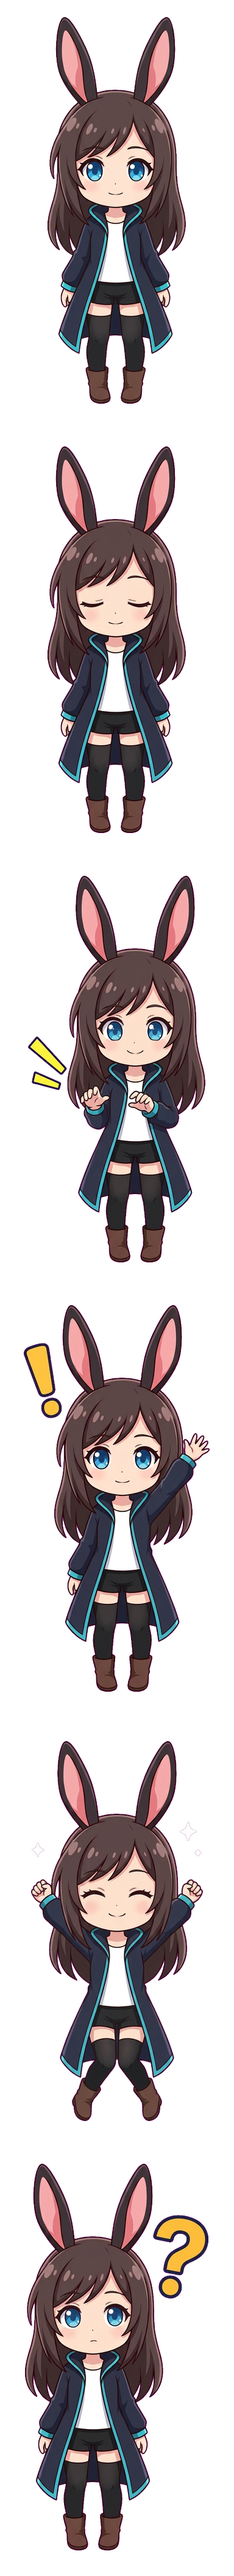
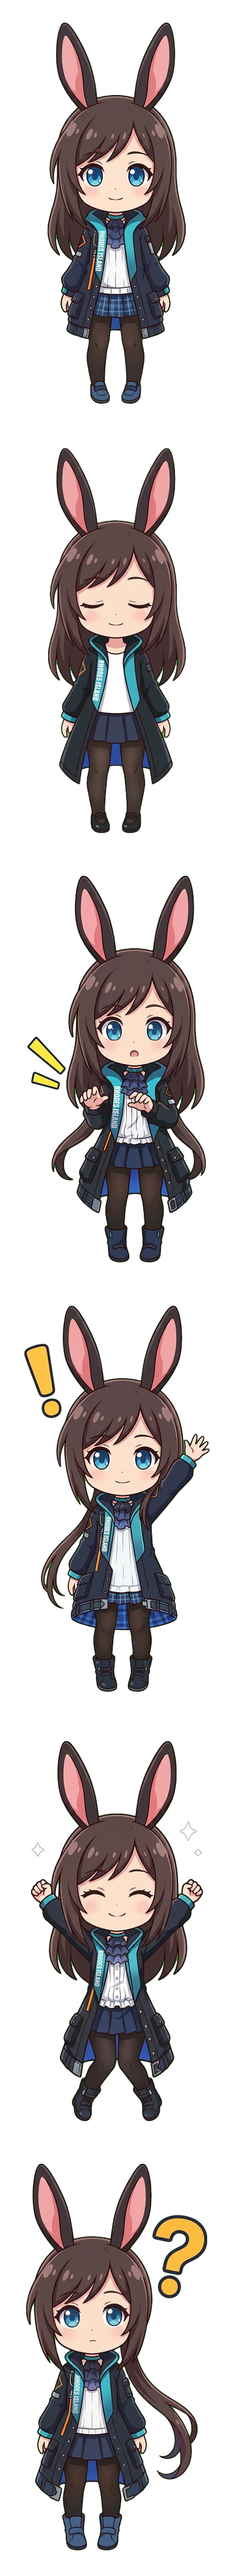
feat(amiya): replace the Q-version artwork with the new generation
The supplied sheet is six 768x1376 frames stacked in one column, already
carrying an alpha channel. Split it into `frames/` (kept as `source.png`)
and match the six rows against the previous atlas: the silhouettes are
pixel-identical, so the row order is unchanged, while the interior was
repainted — tights instead of bare thighs with over-knee socks, a plaid
skirt instead of shorts, blue shoes instead of brown boots, added hair
highlights, and the character's own "RHODES ISLAND" sash marking.

cutout.py now detects either input: a frame whose corners are transparent
is already keyed and is used as-is, because running the magenta unmix over
a keyed frame treats alpha as background and smears the edges.

preview.py is new: preview.png was listed in the README but nothing
produced it.

Verified: check.py green (baseline 661, body heights 622-633, packing
79%x90%, props visible on the dark theme); scale 0.5001 puts the content at
the same 104x218px on screen as before.

diff --git a/characters/lib/preview.py b/characters/lib/preview.py
@@ -1,0 +1,72 @@
+#!/usr/bin/env python3
+"""按 1:1 显示尺寸出对照图，用来确认小尺寸下还看得清。
+
+用法：
+
+    cd ~/projects/agents3 && uv run python <本目录>/preview.py [角色目录]
+
+做成两排：浅色主题底、深色主题底。精灵在页面上就是 132px 宽，所以这里也按
+132px 画 —— 放大看会骗人，缩到这个尺寸还能不能认出角色才是它要回答的问题。
+
+参数全部读 `<角色目录>/pack.json`，脚本本身不写死任何角色，也不 import
+character.py（那是生成参数，与产物规格是两回事）。
+"""
+
+from __future__ import annotations
+
+import json
+import sys
+from pathlib import Path
+
+from PIL import Image
+
+DISPLAY_W = 132      # 与 MoegirlSprite.tsx 里的 DISPLAY_W 一致
+GAP = 10
+MARGIN = 12
+# 浅色与深色主题各取一个接近实际界面的底色。
+BACKGROUNDS = [(246, 246, 248), (26, 27, 32)]
+
+
+def resolve_character_dir() -> Path:
+    """把角色目录从 argv 里摘出来；缺省用当前目录。"""
+    argv = sys.argv[1:]
+    directory = Path(argv[0]).resolve() if argv else Path.cwd()
+    if not (directory / "pack.json").exists():
+        raise SystemExit(f"{directory} 里没有 pack.json —— 用位置参数指到角色目录，或 cd 进去再跑")
+    return directory
+
+
+def main() -> int:
+    directory = resolve_character_dir()
+    pack = json.loads((directory / "pack.json").read_text())
+    frame_w, frame_h = pack["frame"]["width"], pack["frame"]["height"]
+    count = pack["atlas"]["count"]
+    order = [name for name, row in sorted(pack["frames"].items(), key=lambda item: item[1])]
+    if len(order) != count:
+        raise SystemExit(f"fram 表有 {len(order)} 项，atlas.count 是 {count}，对不上")
+
+    display_h = round(DISPLAY_W * frame_h / frame_w)
+    atlas = Image.open(directory / pack["atlas"]["src"]).convert("RGBA")
+
+    width = MARGIN * 2 + count * DISPLAY_W + (count - 1) * GAP
+    height = MARGIN * 2 + len(BACKGROUNDS) * display_h + (len(BACKGROUNDS) - 1) * GAP
+    sheet = Image.new("RGB", (width, height), BACKGROUNDS[0])
+
+    for band, background in enumerate(BACKGROUNDS):
+        y = MARGIN + band * (display_h + GAP)
+        band_box = Image.new("RGB", (width, display_h), background)
+        sheet.paste(band_box, (0, y))
+        for index in range(count):
+            cell = atlas.crop((0, index * frame_h, frame_w, (index + 1) * frame_h))
+            cell = cell.resize((DISPLAY_W, display_h), Image.LANCZOS)
+            sheet.paste(cell, (MARGIN + index * (DISPLAY_W + GAP), y), cell)
+
+    out = directory / "preview.png"
+    sheet.save(out, optimize=True)
+    print(f"对照图 {sheet.width}×{sheet.height}  {out.stat().st_size / 1024:.0f}KB  → {out}")
+    print(f"每格 {DISPLAY_W}×{display_h}（1:1 显示尺寸）  行序 {order}")
+    return 0
+
+
+if __name__ == "__main__":
+    raise SystemExit(main())

diff --git a/characters/lib/cutout.py b/characters/lib/cutout.py
@@ -7,6 +7,12 @@
 
 这一步**不走模型**，全是确定性的，所以可以随便重跑。
 
+输入有两种，脚本自己认：
+
+  * 模型直出的洋红底帧 → 走下面的抠底；
+  * 已经抠好、自带透明通道的帧（四角透明）→ 直接采用。再走一遍洋红抠底会把
+    alpha 当成底色参与反解，边缘会糊掉。
+
 为什么需要它（三件事各自解决一个问题）：
   1. 抠底：模型给的是纯洋红底。按「离底色的距离」算连续 alpha，再按
      P = a·F + (1-a)·B 反解前景色，边缘不留洋红描边。
@@ -85,6 +91,19 @@ def cutout(path: Path) -> tuple[Image.Image, float]:
     return Image.fromarray(out.astype(np.uint8), "RGBA"), float(distance.max())
 
 
+def load_frame(path: Path) -> tuple[Image.Image, str]:
+    """读一帧，返回带 alpha 的图和它走的通路（`precut` 或 `chroma`）。"""
+    source = Image.open(path)
+    if "A" in source.getbands():
+        rgba = source.convert("RGBA")
+        alpha = np.asarray(rgba)[..., 3]
+        height, width = alpha.shape
+        corners = [alpha[2, 2], alpha[2, width - 3], alpha[height - 3, 2], alpha[height - 3, width - 3]]
+        if max(corners) < 250:
+            return rgba, "precut"
+    return cutout(path), "chroma"
+
+
 def content_box(image: Image.Image) -> tuple[int, int, int, int]:
     """量不透明内容的包围盒。"""
     ys, xs = np.where(np.asarray(image)[..., 3] > ALPHA_SOLID)
@@ -109,10 +128,10 @@ def main() -> int:
 
     cut: list[tuple[str, Image.Image, tuple[int, int, int, int]]] = []
     for name in names:
-        image, max_distance = cutout(FRAMES_DIR / f"{name}.png")
+        image, route = load_frame(FRAMES_DIR / f"{name}.png")
         box = content_box(image)
         cut.append((name, image, box))
-        print(f"{name:12s} 内容框 {box[2] - box[0]:4d}×{box[3] - box[1]:4d}  最大色距 {max_distance:.0f}")
+        print(f"{name:12s} 内容框 {box[2] - box[0]:4d}×{box[3] - box[1]:4d}  {route}")
 
     canvas_w, canvas_h = character.CANVAS
     fit_w, fit_h = character.FIT

diff --git a/characters/amiya/README.md b/characters/amiya/README.md
@@ -100,10 +100,11 @@ Nano Banana 的安全过滤会拦掉 prompt 里受版权保护的角色名（返
 | `../lib/cutout.py` | 抠底、统一缩放、底边对齐、拼图集（不走模型） |
 | `../lib/check.py` | 自检：底边、身体高度、道具对比度、装箱、图集规格 |
 | `../lib/install.sh` | 装进 `~/.dsh/moegirl/packs/amiya/` 并设为当前使用 |
-| `frames/0N-*.png` | 生成的原帧（洋红底，未处理） |
+| `source.png` | 用户给的整张素材，六格 768×1376 竖排、自带透明通道；`frames/` 由它切出来 |
+| `frames/0N-*.png` | 单帧。可以是洋红底的生成原帧，也可以是抠好的透明帧，`cutout.py` 自己认 |
 | `atlas.png` | 拼好的图集，六格 384×704 竖排 |
 | `pack.json` | 资源包文档（画布、帧名、帧序列、动作、气泡） |
-| `preview.png` | 浅色/深色主题下 1:1 显示尺寸对照 |
+| `preview.png` | 浅色/深色主题下 1:1 显示尺寸对照（`../lib/preview.py` 生成） |
 
 ## 状态与动作
 
